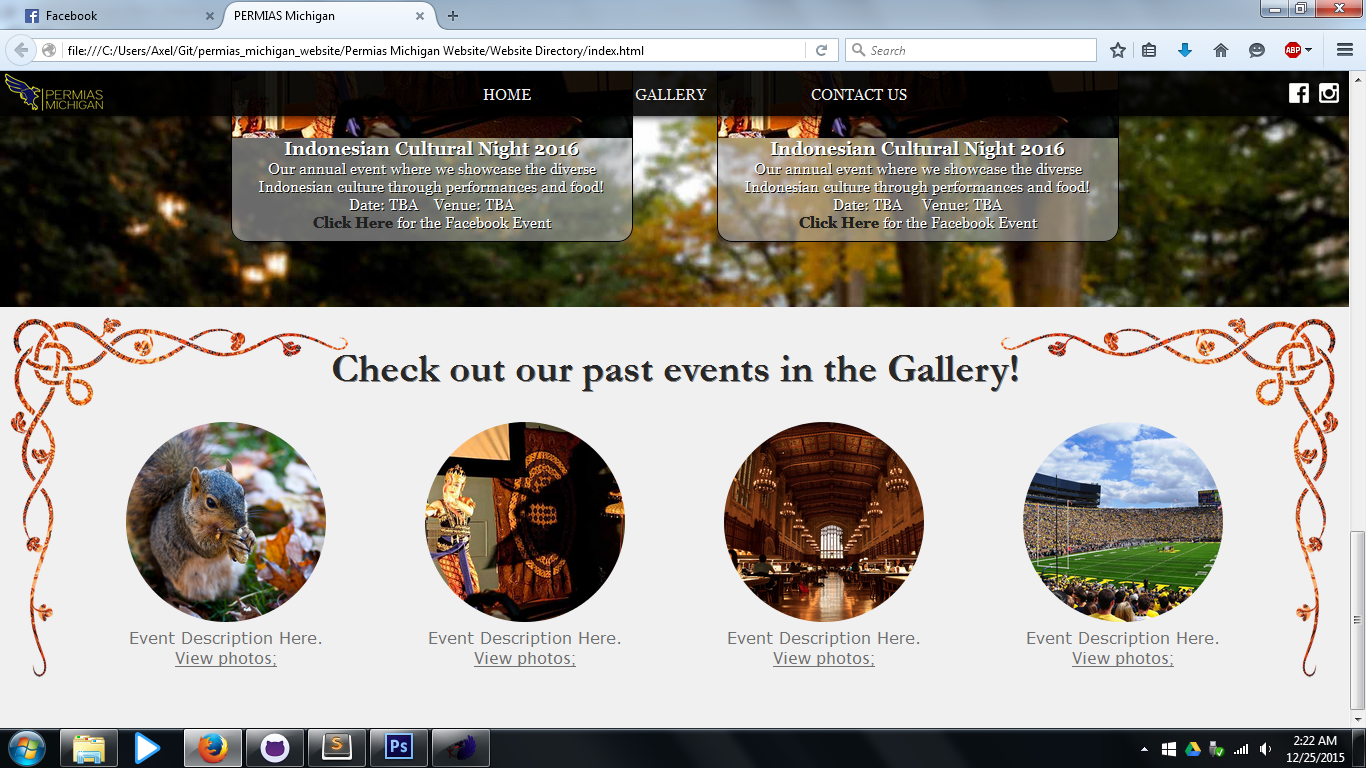
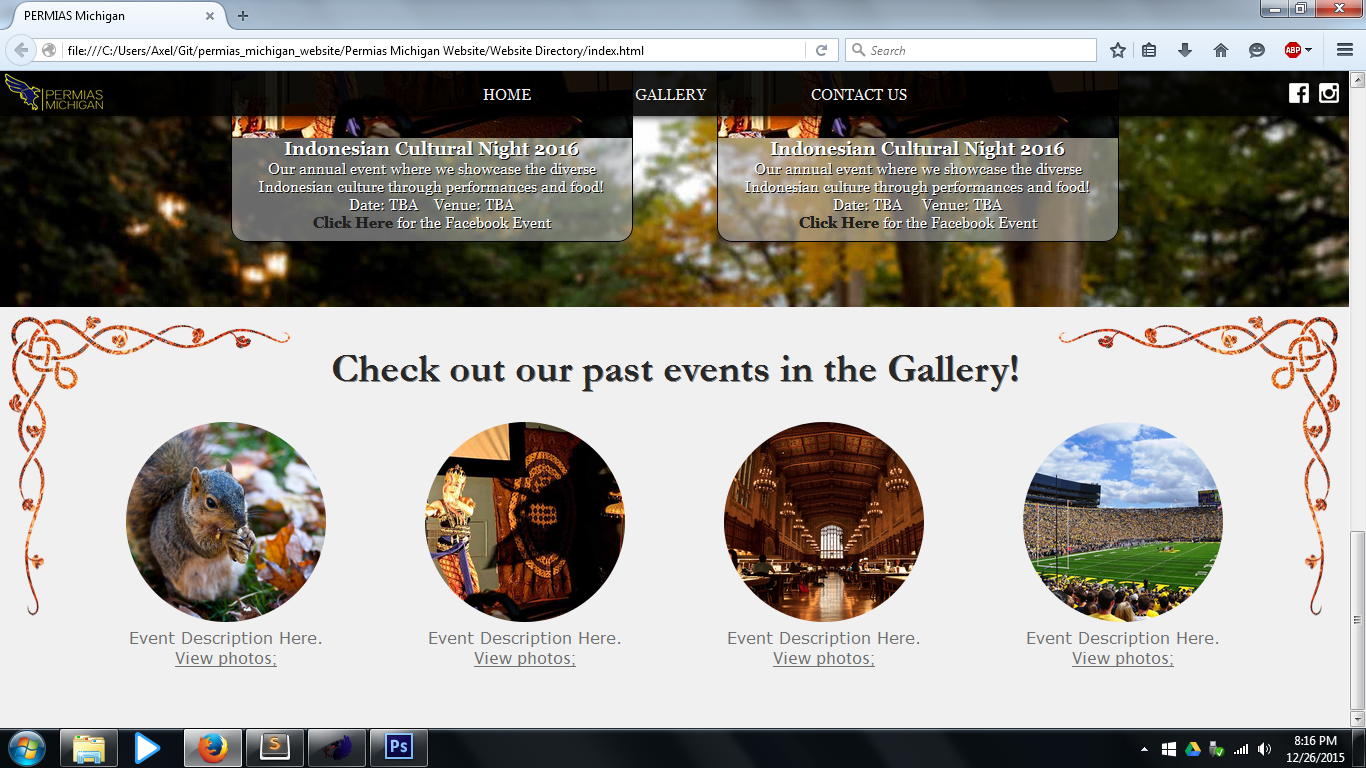
Added hr

diff --git a/Permias Michigan Website/Website Directory/index.html b/Permias Michigan Website/Website Directory/index.html
@@ -152,7 +152,7 @@ $(document).on("scroll",function(){
                  src="images/thumb2.jpg"><img  src="images/thumb3.jpg"><img  src="images/thumb4.jpg"></div>
           </a>
           <p>Event Description Here.<br>
-            <a  href="gallery.html">View photos;</a></p>
+            <a  href="gallery.html">View photos</a></p>
         </div>
         <div  id="thumb_container"><a  href="gallery.html">
             <div  class="round_thumb_container2"><img  src="images/thumb2.jpg"><img
@@ -160,7 +160,7 @@ $(document).on("scroll",function(){
                  src="images/thumb1.jpg"><img  src="images/thumb3.jpg"><img  src="images/thumb4.jpg"></div>
           </a>
           <p>Event Description Here.<br>
-            <a  href="gallery.html">View photos;</a></p>
+            <a  href="gallery.html">View photos</a></p>
         </div>
         <div  id="thumb_container"><a  href="gallery.html">
             <div  class="round_thumb_container3"><img  src="images/thumb3.jpg"><img
@@ -168,7 +168,7 @@ $(document).on("scroll",function(){
                  src="images/thumb2.jpg"><img  src="images/thumb1.jpg"><img  src="images/thumb4.jpg"></div>
           </a>
           <p>Event Description Here.<br>
-            <a  href="gallery.html">View photos;</a></p>
+            <a  href="gallery.html">View photos</a></p>
         </div>
         <div  id="thumb_container"><a  href="gallery.html">
             <div  class="round_thumb_container4"><img  src="images/thumb4.jpg"><img
@@ -176,9 +176,14 @@ $(document).on("scroll",function(){
                  src="images/thumb2.jpg"><img  src="images/thumb3.jpg"><img  src="images/thumb1.jpg"></div>
           </a>
           <p>Event Description Here.<br>
-            <a  href="gallery.html">View photos;</a></p>
+            <a  href="gallery.html">View photos</a></p>
         </div>
         <script  type="text/javascript"  src="script.js"></script> </div>
+    </div>
+    <div  id="home_hr_container">
+      <hr> </div>
+    <div  id="home_contacts">
+      <h4>Any questions? Concerns? Contact Us!</h4>
     </div>
   </body>
 </html>

diff --git a/Permias Michigan Website/Website Directory/main.css b/Permias Michigan Website/Website Directory/main.css
@@ -14,6 +14,23 @@ body:after {
 	background-image: url("images/background.jpg");
 	background-size: cover;
 }
+#home_hr_container {
+	float: left;
+	background-color: #f0f0f0;
+	width: 100%;
+	margin: 0px;
+	border: none;
+	z-index: 99;
+}
+hr {
+	position: absolute;
+	display: block;
+	left: 2.5%;
+	margin: 0px auto 0px auto;
+	width: 95%;
+	border: 0.5px inset #686868;
+	z-index: 99;
+}
 
 #about-us {
 	float: left;
@@ -156,6 +173,7 @@ div.event_desc p a:hover {
 	text-shadow: 1px 1px #888888;
 }
 #thumbs_section {
+	background: rgba(0,0,0,0);
 	position: relative;
 	width: 85%;
 	left: 7.5%;
@@ -267,6 +285,12 @@ div .round_thumb_container4 {
 	color: #707070;
 }
 
+#home_contacts {
+	float: left;
+	background-color: #f0f0f0;
+	width: 100%;
+	height: auto;
+}
 
 
 
